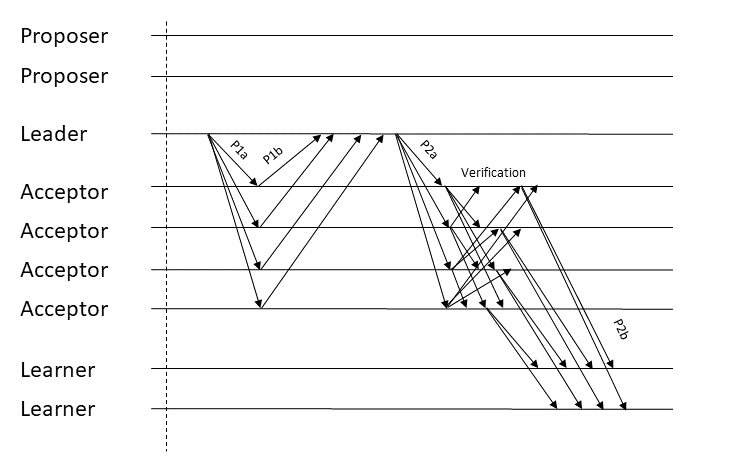
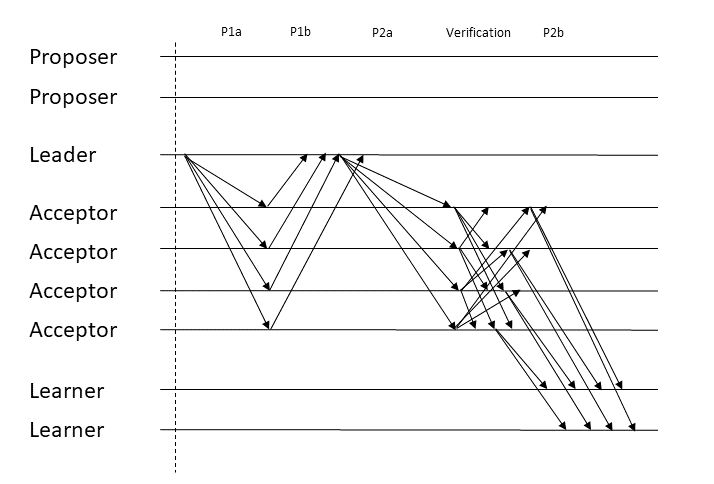
Fixes to model and figures

diff --git a/bft_model.tex b/bft_model.tex
@@ -1,15 +1,15 @@
 \section{Model} \label{bft_model}
 
-In this section, we define our simplified consensus problem for the Byzantine fault tolerant model (\acrshort{bft}) and describe how the possibility of Byzantine faults has an effect on both the network assumptions and the fault model. We start by describing the fault and network assumptions in which the protocol will function and then we move on the consensus specification itself.
+In this section, we define our simplified consensus problem for the Byzantine fault tolerant (\acrshort{bft}) model and describe how the possibility of Byzantine faults has an effect on both the network assumptions and the fault model. We start by describing the fault and network assumptions in which the protocol will function and then we move on the consensus specification itself.
 
 \subsection{Network Model}
 For the Byzantine tolerant protocol, we consider an \emph{asynchronous} system in which a set of $n \in \mathbb{N}$ processes communicate by \emph{sending} and \emph{receiving} messages. Furthermore, for clarity of exposition, we assume authenticated perfect links~\cite{cgr:book}, where a message that is sent by a non-faulty sender is eventually received exactly once and the receiver is guaranteed that the message originated from its stated sender (such links can be implemented trivially using retransmission, elimination of duplicates, and point-to-point message authentication codes~\cite{cgr:book}). As is the case in the \acrshort{cft} protocol, each process executes an algorithm depending on its role, which can be of proposer, acceptor or learner (a process can have multiple roles simultaneously). Our protocol requires a minimum number $N$ of acceptor processes and we assume that they have identifiers in the set $\{0,...,N-1\}$. In contrast, the number of proposer and learner processes can be set arbitrarily.
 
 \subsection{Fault Model}
-Each process executes an algorithm assigned to it according to its role, but may fail in two different ways. First, it may stop executing it by \emph{crashing}. Second, it may stop following the algorithm assigned to it, in which case it is considered \emph{Byzantine}. We say that a non-Byzantine process is \emph{correct}. Our protocol functions under the \emph{authenticated} Byzantine model where every process can produce cryptographic digital signatures~\cite{vukolic2012quorum}. The number of acceptor processes $N$ is a function of the maximum number of tolerated Byzantine faults $f$, namely $N \ge 3f+1$, and quorums are any set of $N-f$ processes. 
+Each process executes one or more algorithms assigned to it according to its roles, but may fail in two different ways. First, it may stop executing an algorithm by \emph{crashing}. Second, it may stop following an algorithm assigned to it, in which case it is considered \emph{Byzantine}. We say that a non-Byzantine running process is \emph{correct}. Our protocol functions under the \emph{authenticated} Byzantine model where every process can produce cryptographic digital signatures~\cite{vukolic2012quorum}. The number of acceptor processes $N$ is a function of the maximum number of tolerated Byzantine faults $f$, namely $N \ge 3f+1$, and quorums are any set of $N-f$ processes. 
 
 \subsection{Problem Statement}
-As in the \acrshort{cft} version of our simplified specification of Generalized Paxos, each learner $l$ maintains a monotonically increasing sequence of commands $learned_l$. Similarly, our definition of equivalence remains the same as it was defined in Section \ref{cft_problem}, where we define two learned sequences of commands to be equivalent ($\thicksim$) if one can be transformed into the other by permuting the elements in a way such that the order of non-commutative pairs is preserved. A sequence $x$ is defined to be an \textit{eq-prefix} of another sequence $y$ ($x \sqsubseteq y$), if the subsequence of $y$ that contains all the elements in $x$ is equivalent ($\thicksim$) to $x$. 
+As in the \acrshort{cft} version of our simplified specification of Generalized Paxos, each learner $l$ maintains a monotonically increasing sequence of commands $learned_l$. Similarly, our definition of equivalence remains the same as it was defined in Section \ref{cft_problem}, where we define two learned sequences of commands to be equivalent ($\thicksim$) if one can be transformed into the other by permuting the elements in a way such that the order of non-commutative pairs is preserved. A sequence $x$ is defined to be an \textit{prefix} of another sequence $y$ ($x \sqsubseteq y$), if the subsequence of $y$ that contains all the elements in $x$ is equivalent ($\thicksim$) to $x$. 
 We present the requirements for this consensus problem, stated in terms of learned sequences of commands for a correct learner $l$, $learned_l$. Since we wish to not only strengthen the fault model but also preserve the understandability and ease of implementation of the consensus problem defined for the \acrshort{cft} model, our Byzantine version of the command history problem will be based our previous specification of consensus. The requirements of the consensus problem for the Byzantine model are:\par
 %
 \begin{enumerate}
